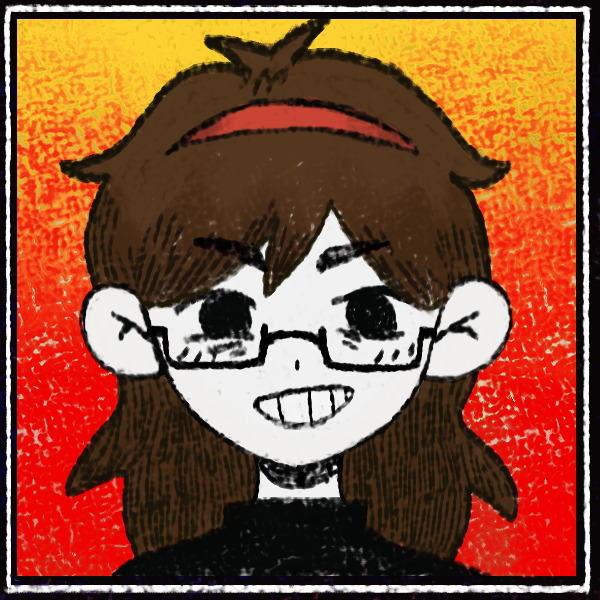
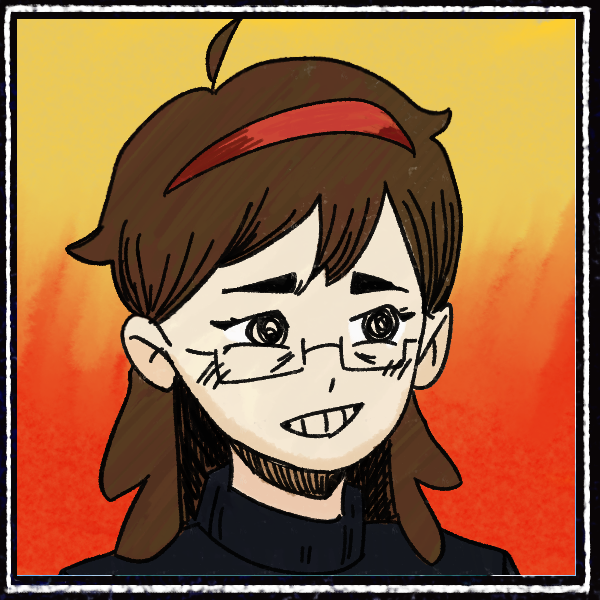
Update layout

diff --git a/public/index.html b/public/index.html
@@ -164,9 +164,10 @@
                   </div>
                   <p>
                     James loves to create sites, games, whatever needs to be
-                    made, and whatever feels good to make. He's optimistic about
-                    new patterns of making and sharing among creative people
-                    outside of commercial content structures.
+                    made, and whatever feels good to make. He's in the middle of
+                    chasing down the next new thing to learn, a process that may
+                    never end... he's optimistic about new patterns of making
+                    and sharing among creative people.
                   </p>
                 </div>
               </div>

diff --git a/public/script.js b/public/script.js
@@ -92,6 +92,7 @@ function formatDescriptionDate(date) {
     month: "long",
     day: "numeric",
     year: "numeric",
+    timeZone: "UTC",
   });
 }
 
